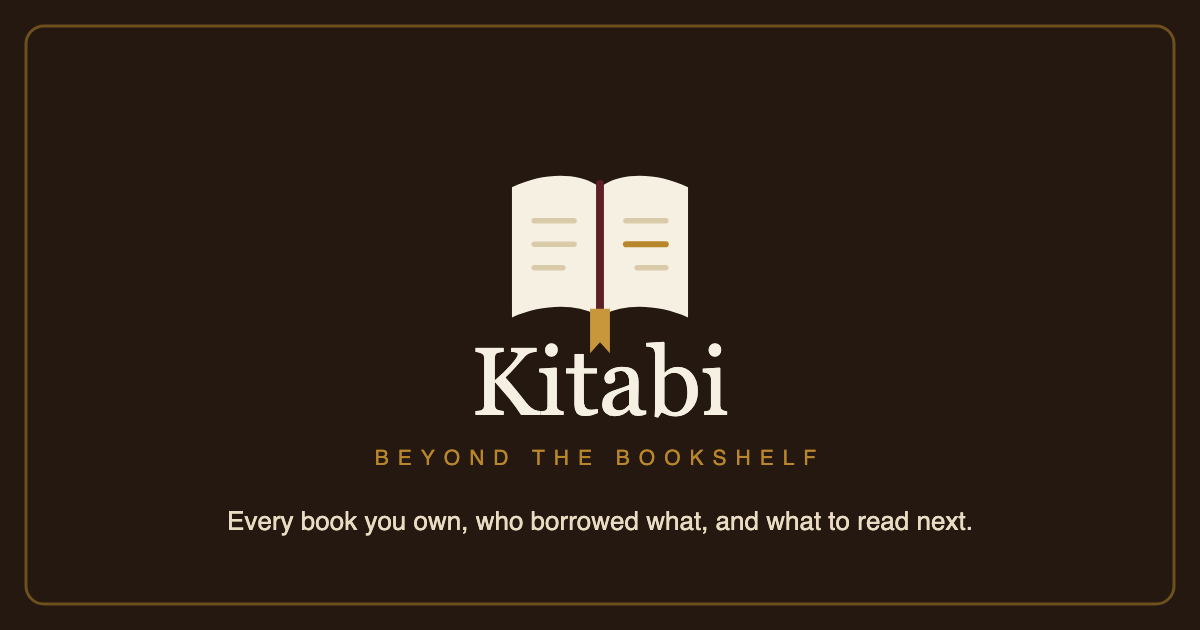
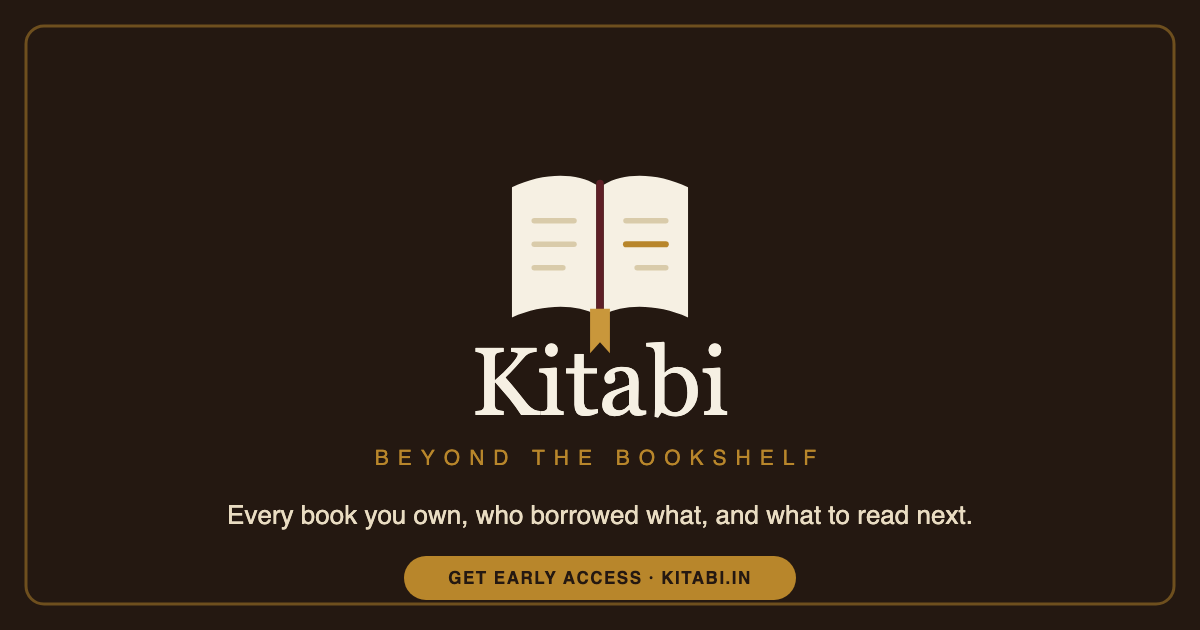
fix(landing): tighten meta lengths, add CTA badge to og-image
Address meta-tag inspector warnings: title 87->58 chars, meta
description 255->140, og:description 137->89, twitter:description
tightened to match. Add a "Get early access · kitabi.in" gold badge
to the 1200x630 share image so og:image has a clear call-to-action.
Also fixes an invalid XML comment (literal "--" in "--headless") in
og-image.svg that made Chrome refuse to render the file correctly.

Changed region(s): [[0.185, 0.7841, 0.8017, 0.8444], [0.3392, 0.8746, 0.6783, 0.9651]]

diff --git a/landing-page/index.html b/landing-page/index.html
@@ -3,8 +3,8 @@
 <head>
 <meta charset="UTF-8">
 <meta name="viewport" content="width=device-width, initial-scale=1.0, viewport-fit=cover">
-<title>Kitabi — Beyond the Bookshelf | Your Home Library, Lending &amp; Reading Tracker</title>
-<meta name="description" content="Kitabi is a private home-library app: catalogue every book you own, remember who borrowed what, track your reading, and know what to read next. Import from Goodreads or a spreadsheet in minutes. Free, private by default. Launching soon on Android and iOS.">
+<title>Kitabi — Beyond the Bookshelf | Book Tracker &amp; Library App</title>
+<meta name="description" content="Catalogue every book you own, track lending, and know what to read next. Import from Goodreads in minutes. Free and private. Launching soon.">
 <meta name="keywords" content="book tracker app, home library app, personal library, book lending tracker, reading tracker, Goodreads import, book catalogue app, Malayalam books, Indian languages reading app, Kitabi">
 <meta name="author" content="Kitabi">
 <meta name="robots" content="index, follow, max-image-preview:large">
@@ -19,7 +19,7 @@
 <meta property="og:site_name" content="Kitabi">
 <meta property="og:locale" content="en_IN">
 <meta property="og:title" content="Kitabi — Beyond the Bookshelf">
-<meta property="og:description" content="Every book you own, who borrowed what, and what to read next — a private library in your pocket. Free. Launching soon on Android and iOS.">
+<meta property="og:description" content="Every book you own, who borrowed what, what to read next — free, private. Launching soon.">
 <meta property="og:url" content="https://kitabi.in/">
 <meta property="og:image" content="https://kitabi.in/og-image.png">
 <meta property="og:image:width" content="1200">
@@ -29,7 +29,7 @@
 <!-- Twitter -->
 <meta name="twitter:card" content="summary_large_image">
 <meta name="twitter:title" content="Kitabi — Beyond the Bookshelf">
-<meta name="twitter:description" content="Every book you own, who borrowed what, and what to read next — a private library in your pocket. Launching soon.">
+<meta name="twitter:description" content="Every book you own, who borrowed what, what to read next — a private library in your pocket.">
 <meta name="twitter:image" content="https://kitabi.in/og-image.png">
 <meta name="twitter:image:alt" content="Kitabi — an open book with a gold line and ribbon bookmark. Beyond the Bookshelf.">
 